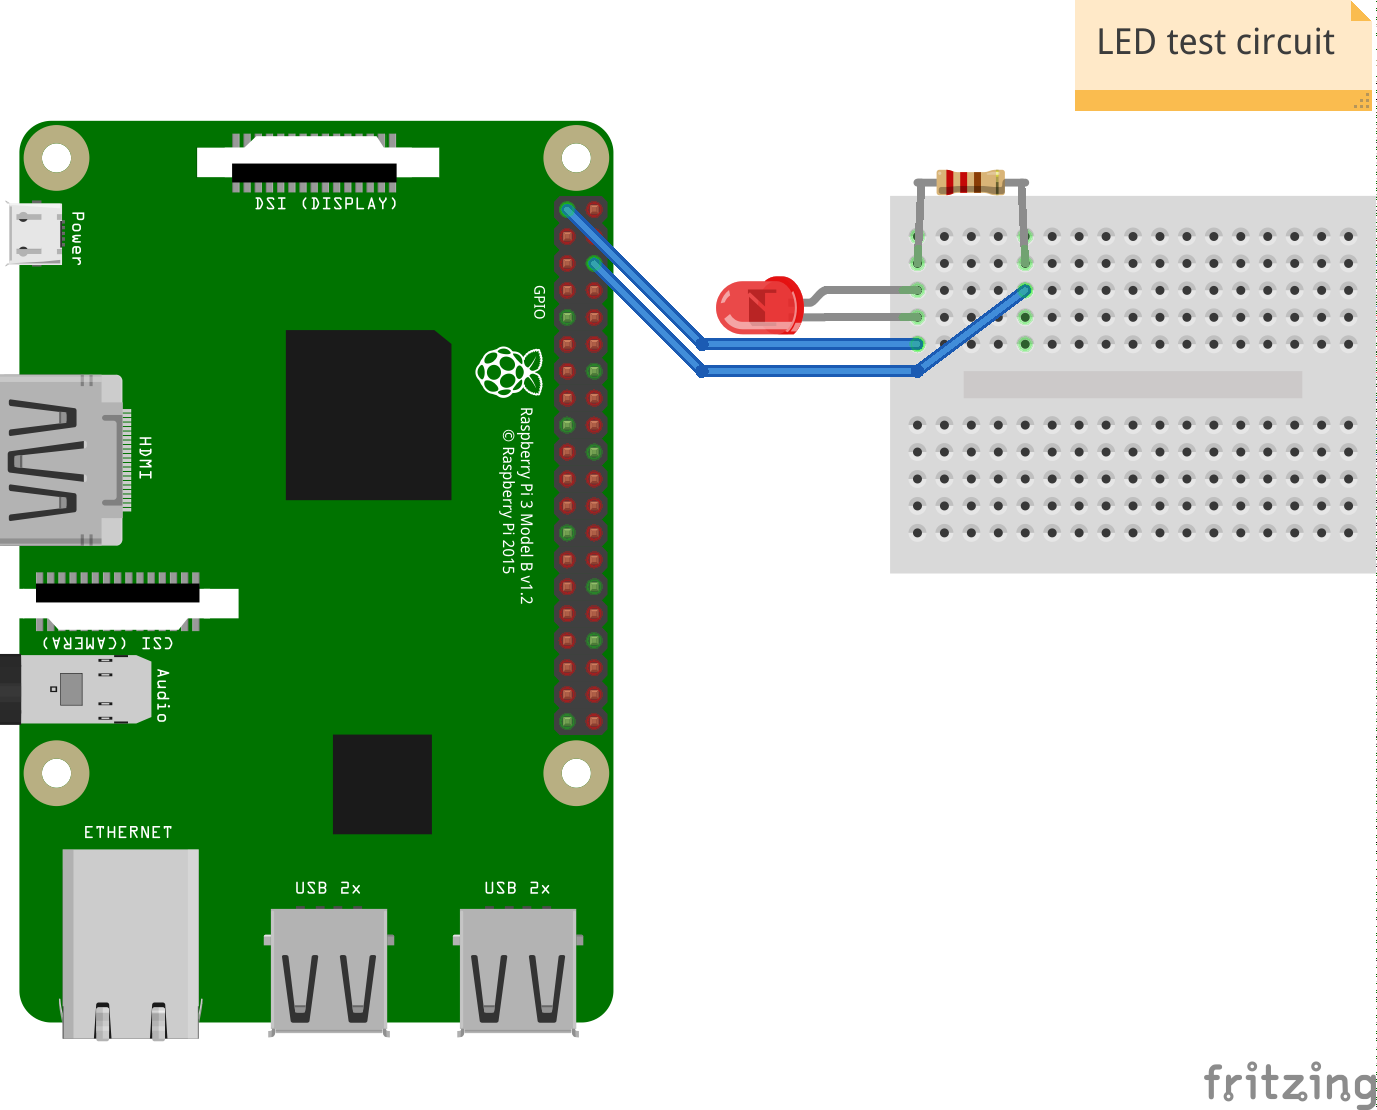
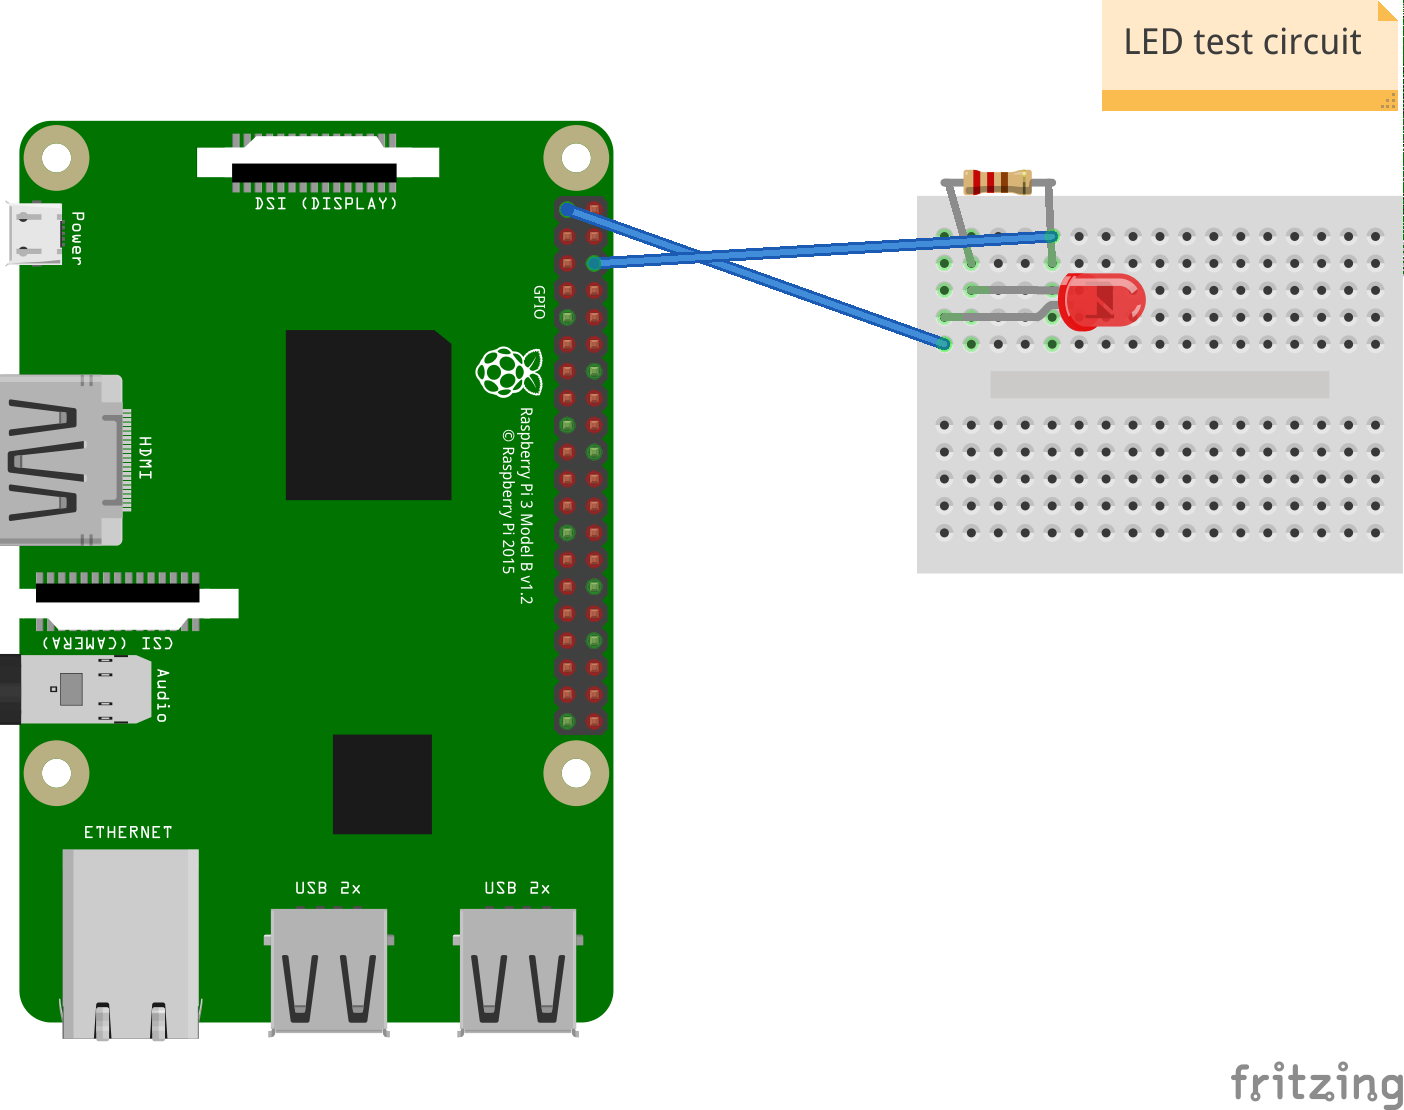
misc fixes from Isaac

diff --git a/students.md b/students.md
@@ -56,7 +56,7 @@ mc = Minecraft.create()
 mc.postToChat('Hello World!')
 ```
 
-6. Click *File > Save* and save this file as `helloworld.py`.
+6. Click *File > Save* and save this file as `helloworld.py`. If you get a dialog box saying the file already exists, you can say *YES* to overwriting the file.
 
 7. Click *Run > Run Module* in IDLE to run this program. You should see the text "Hello World!" appear in your Minecraft chat window.
 
@@ -95,8 +95,9 @@ We can also join strings together to print out messages with several variables.
 from mcpi.minecraft import Minecraft
 mc = Minecraft.create()
 
-name = 'Type your name here'
-mc.postToChat('Hello ' + name + '!')
+first_name = 'Type your first name here'
+last_name = 'Type your last name here'
+mc.postToChat('Hello ' + first_name + ' ' + last_name + '!')
 ```
 
 2. Click *Run > Run Module* in IDLE to run this program. You should see yourself greeted in the Minecraft window.
@@ -121,7 +122,7 @@ mc.postToChat('Hello ' + name + '!')
 
 2. Click *Run > Run Module* in IDLE to run this program. Once again, save your file if prompted.
 
-You should see yourself greeted in the Minecraft window.
+Look in the Python Shell window, and you should see your question. Type your name and hit enter. You should see yourself greeted in the Minecraft window.
 
 
 Well done, you've completed the first exercise! Ask a Young Coders helper to review your code and get a stamp!
@@ -132,15 +133,13 @@ Well done, you've completed the first exercise! Ask a Young Coders helper to rev
 
 Now that we know about variables, we can use them to teleport Steve all over the place in style!
 
-In Minecraft Pi, you can see your current position in the world in the top left of the screen.
+In Minecraft Pi, you can see your current position in the world in the top left of the screen starting with the label *pos:*.
 
-XXX: Screenshot showing coordiates in Minecraft Pi.
+Coordinates have 3 parts which we can use to represent a position in 3d space: *x*, *y* and *z*. *x* and *z* are your horizontal position in the world and *y* is your height.
 
-Coordinates have 3 parts which we can use to represent a position in 3d space: x, y and z.
+Let's create variables for *x*, *y* and *z*.
 
-Let's create variables for x, y and z.
-
-1. In IDLE, Select *File > New* to open a new editor window.
+1. In IDLE, Select *File > New File* to open a new editor window.
 
 ![](assets/images/file-new-idle.png)
 
@@ -151,8 +150,8 @@ from mcpi.minecraft import Minecraft
 mc = Minecraft.create()
 
 x = -5.4
-y = 12.0
-z = -14.4
+y = 14.0
+z = -21.6
 
 mc.player.setTilePos(x, y, z)
 ```
@@ -163,16 +162,20 @@ Remember, if you want to go back to the start, change x, y and z back to their o
 
 4. Click *Run > Run Module* in IDLE to run this program. You should see Steve teleported to a new location.
 
-5. Go back to your original coordinates. (-5.4, 12, -14)
+You should see you have teleported a short distance forward, and are now standing closer to the Young Coders sign.
 
-6. Try to teleport to the top of the tower on the left. Once you have reached the top of the tower, you'll find a secret message. Whisper the secret message to a Young Coders helper, to complete the exercise and receive a stamp.
+5. Change x, y and z back to your original coordinates (x = -5.4, y = 12, z= -14) and re-run your program.
+
+6. Not try to teleport to the top of the tower on the left by guessing the coordinates. Remember if you go in the wrong direction, you can change your coordinates back to reset them. A good way to figure out the coordinates for the tower, is to walk towards it and check the top left hand corner for your coordinates. Once you think you have x and z correct, try to add a bigger value for y which is your height.
+
+Once you have reached the top of the tower, you'll find a secret message. Whisper the secret message to a Young Coders helper, to complete the exercise and receive a stamp.
 
 
 ## Workshop 1, Exercise 2b: Teleportation Tour
 
 You may have noticed that there are two towers in our world. Let's write some code that let's us teleport from our starting location, to the top of the tower on the left, to the top of the tower on the right, and finally back to the start!
 
-1. Modify our previous program, to teleport Steve from one place to another.
+1. Modify our previous program, to teleport Steve from one place to another. Don't delete your *x* *y* and *z* for the first tower - we can rename them and use them again. (If you do make a mistake and want to undo anything in IDLE you can use CTRL+Z).
 
 The code below is *incomplete* - you will need to fill in the blanks where the code is commented. Comments look like:
 
@@ -180,7 +183,7 @@ The code below is *incomplete* - you will need to fill in the blanks where the c
 # Todo: Add variable and x coordinates for tower_2
 ```
 
-Look for comments in the code, starting with '#' to figure out what you need to fix.
+Look for comments in the code, starting with '#' to figure out what you need to fix. You can run your program to test it at any time (F5) while you work on it. You might want to try to get teleporting from your start position to the top of the first tower working first, and then figure out how to teleport to the second tower afterwards.
 
 ```python
 from mcpi.minecraft import Minecraft
@@ -190,6 +193,8 @@ start_x = -5.4
 start_y = 12.0
 start_z = -14.4
 
+# Hint: since you've already worked out how to get to the top of tower 1,
+# you can just rename your x, y and z to tower_1_x etc.
 tower_1_x = 0 # Todo: Add x coordinates for tower_1
 tower_1_y = 0 # Todo: Add y coordinates for tower_1
 tower_1_z = 0 # Todo: Add z coordinates for tower_1
@@ -242,7 +247,7 @@ In Minecraft, every block type, from diamond to cactus, has a *block id*. (*Lear
 
 Let's make a program that creates a cobblestone block at Steve's location.
 
-1. In IDLE, select *File > New* to open a new editor window.
+1. In IDLE, select *File > New File* to open a new editor window.
 
 2. Type the following code in the new editor window:
 
@@ -264,6 +269,8 @@ mc.setBlock(x, y, z, block_id)
 4. Click *Run > Run Module* in IDLE to run your program.
 
 5. Experiment with changing the value of `block_id` and see what other types of blocks you can create.
+
+\pagebreak
 
 ## Workshop 1, Exercise 3b: Blockstacking
 
@@ -301,11 +308,11 @@ Let's improve our block creating program, so that it asks for user input. We've 
 
 ### Learning about Strings and Integers
 
-First let's see what happens when we try to add numbers together as strings in the IDLE shell. The IDLE shell is a handy tool that will run the python code you type after you hit *enter*. It isn't a great way to write long programs, but it can be very handy for learning and exploring.
+First let's see what happens when we try to add integers together as strings in the IDLE shell. The IDLE shell is the handy tool you used before to answer your input question. Any code you add after the `>>>` prompt will run after you hit *enter*. It isn't a great way to write long programs, but it can be very handy for learning and exploring.
 
 1. Find the IDLE shell window. It will have a prompt starting with `>>>`.
 
-2. Let's try adding some numbers together as strings:
+2. Let's try adding some integers together as strings:
 
 `>>> '1' + '2'`
 
@@ -319,9 +326,11 @@ You can also of course type:
 
 `>>> 1 + 2`
 
+\pagebreak
+
 ### Updating our Block program to use input() and int()
 
-1. In IDLE, Select *File > New* to open a new editor window.
+1. In IDLE, Select *File > New File* to open a new editor window.
 
 The program below is incomplete, and you'll need to fix the bits that say `# TODO:`!
 
@@ -340,6 +349,10 @@ y = pos.y
 z = pos.z
 mc.setBlock(x, y, z, block_id)
 ```
+
+3. Click *File > Save* and save this file as `blocks_plus.py`.
+
+4. Click *Run > Run Module* in IDLE to run your program.
 
 Does your program work? Ask a helper to check your code.
 
@@ -428,11 +441,17 @@ While we're making our circuit, it's important that the Raspberry Pi is switched
 ![](assets/images/power-restart.jpg)
 \pagebreak
 
-3. Wiring up our test circuit
+3. Wire up a test circuit
 
-Our first circuit is going to test that our components are working correctly and we have our circuit wired up the right way. 
+Our first circuit is going to test that our components are working correctly and we have our circuit wired up the right way. Follow the diagram below to setup your components correctly.
+
+The *female* (the end with a slot) end of your jumpers will connect to the pins on the GPIO port, and the *male* (the end with the pin) end will connect to the breadboard.
+
+Make sure the long leg of the LED is connected to the first row on the breadborad.
 
 ![](assets/images/led-test_bb.png)
+
+Remember, if you get stuck or need some help, raise your hand and talk to a Young Coders helper.
 
 4. Turn your Pi back on by reconnecting the power.
 
@@ -456,7 +475,7 @@ This will allow us to turn our circuit on and off with code.
 
 ![](assets/images/run-idle.png)
 
-4. Select *File > New* to open a new editor window.
+4. Select *File > New File* to open a new editor window.
 
 ![](assets/images/file-new-idle.png)
 
@@ -503,7 +522,7 @@ Now we're going to make a slightly more complicated program that can turn our LE
 
 ![](assets/images/create-door.png)
 
-3. Select *File > New* in IDLE to open a new editor window.
+3. Select *File > New File* in IDLE to open a new editor window.
 
 4. Type in the following code:
 
